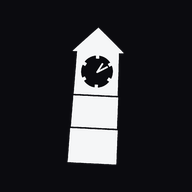
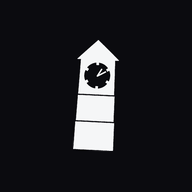
Let the home screen have the mark, not a blank tile
iOS asks for /apple-touch-icon.png at the site root before it reads the link
tag, and the proxy matcher protected that path -- so the probe was answered
with a 307 to the sign-in page. iOS got HTML where it expected a PNG and drew
its own tile instead of the tower. It belongs in the exclusion list for the
same reason sw.js does: protecting it breaks the feature silently. The file is
now served from the root as well, under both spellings iOS tries.

favicon.ico was 83% transparent with a near-white mark, so on any light ground
-- an iOS tile, a light tab -- the tower was white on white and only the clock
face survived. It is opaque now, on the same near-black ground as every other
icon, and cut at 16/32/48 rather than carrying an uncompressed 256 that was
370 KB on its own.

The maskable pair was maskable in name only: the mark filled 72% of the canvas
where the safe zone is the middle 80% *circle*, which for a mark this tall
means about 58%. An adaptive launcher would have taken the roof off. Rebuilt
at 58%, so any mask shape clips only ground.

iOS reads none of the manifest -- not its icons, not background_color, not
purpose:"maskable" -- so the opaque apple-touch-icon is the whole story there,
and the manifest work is Android's alone.

Claude-Session: https://claude.ai/code/session_01D4s31YkEAB92qCTo9gezJ7

Changed region(s): [[0.3438, 0.125, 0.6562, 0.875]]

diff --git a/src/app/layout.tsx b/src/app/layout.tsx
@@ -52,11 +52,23 @@ export const metadata: Metadata = {
   title: "Tilted Poker",
   description: "ניהול כניסות, ריבאיים וסגירת חשבון בערב פוקר ביתי",
   manifest: "/manifest.webmanifest",
-  // iOS reads none of the manifest. Without an apple-touch-icon it puts a screenshot of
-  // the page on the home screen, and it will not composite a background behind a
-  // transparent icon -- it renders one as a black slab -- so this file is opaque.
+  // iOS reads none of the manifest -- not its icons, not background_color, not
+  // purpose:"maskable". The apple-touch-icon is the whole of it, and it must be opaque:
+  // without one iOS puts a screenshot of the page on the home screen, and iOS 18 paints
+  // a transparent icon onto white rather than compositing it onto the app's own ground.
+  //
+  // The same file is also served from the site root (public/apple-touch-icon.png),
+  // because iOS probes /apple-touch-icon.png directly before it reads this tag.
+  //
+  // `icon` is declared explicitly as PNG so a light browser tab gets an opaque icon on
+  // the app's ground rather than the .ico. Next already injects a link for
+  // src/app/favicon.ico, so listing it here too would only duplicate the tag.
   icons: {
     apple: [{ url: "/art/apple-touch-icon.png", sizes: "180x180", type: "image/png" }],
+    icon: [
+      { url: "/art/icon-192.png", sizes: "192x192", type: "image/png" },
+      { url: "/art/icon-512.png", sizes: "512x512", type: "image/png" },
+    ],
   },
   appleWebApp: {
     capable: true,

diff --git a/src/proxy.ts b/src/proxy.ts
@@ -26,6 +26,12 @@ export const config = {
     // `api/avatar` serves admin-added character art. It belongs with `art` rather than
     // with the rest of `api`: it is a static asset that happens to live in Postgres, and
     // `next/image` fetches it without a session the way it fetches a committed file.
-    "/((?!auth/sign-in|api/auth|api/avatar|_next/static|_next/image|favicon.ico|art|sw.js|manifest.webmanifest).*)",
+    //
+    // `apple-touch-icon` has to be here for the same reason `sw.js` does -- protecting it
+    // breaks the feature silently. iOS probes /apple-touch-icon.png (and the
+    // -precomposed and -180x180 spellings) at the site root when adding to the home
+    // screen, ahead of the <link> tag. A 307 to the sign-in page hands it HTML where it
+    // expected a PNG, so it gave up and drew a blank tile instead of the mark.
+    "/((?!auth/sign-in|api/auth|api/avatar|_next/static|_next/image|favicon.ico|apple-touch-icon|art|sw.js|manifest.webmanifest).*)",
   ],
 };
